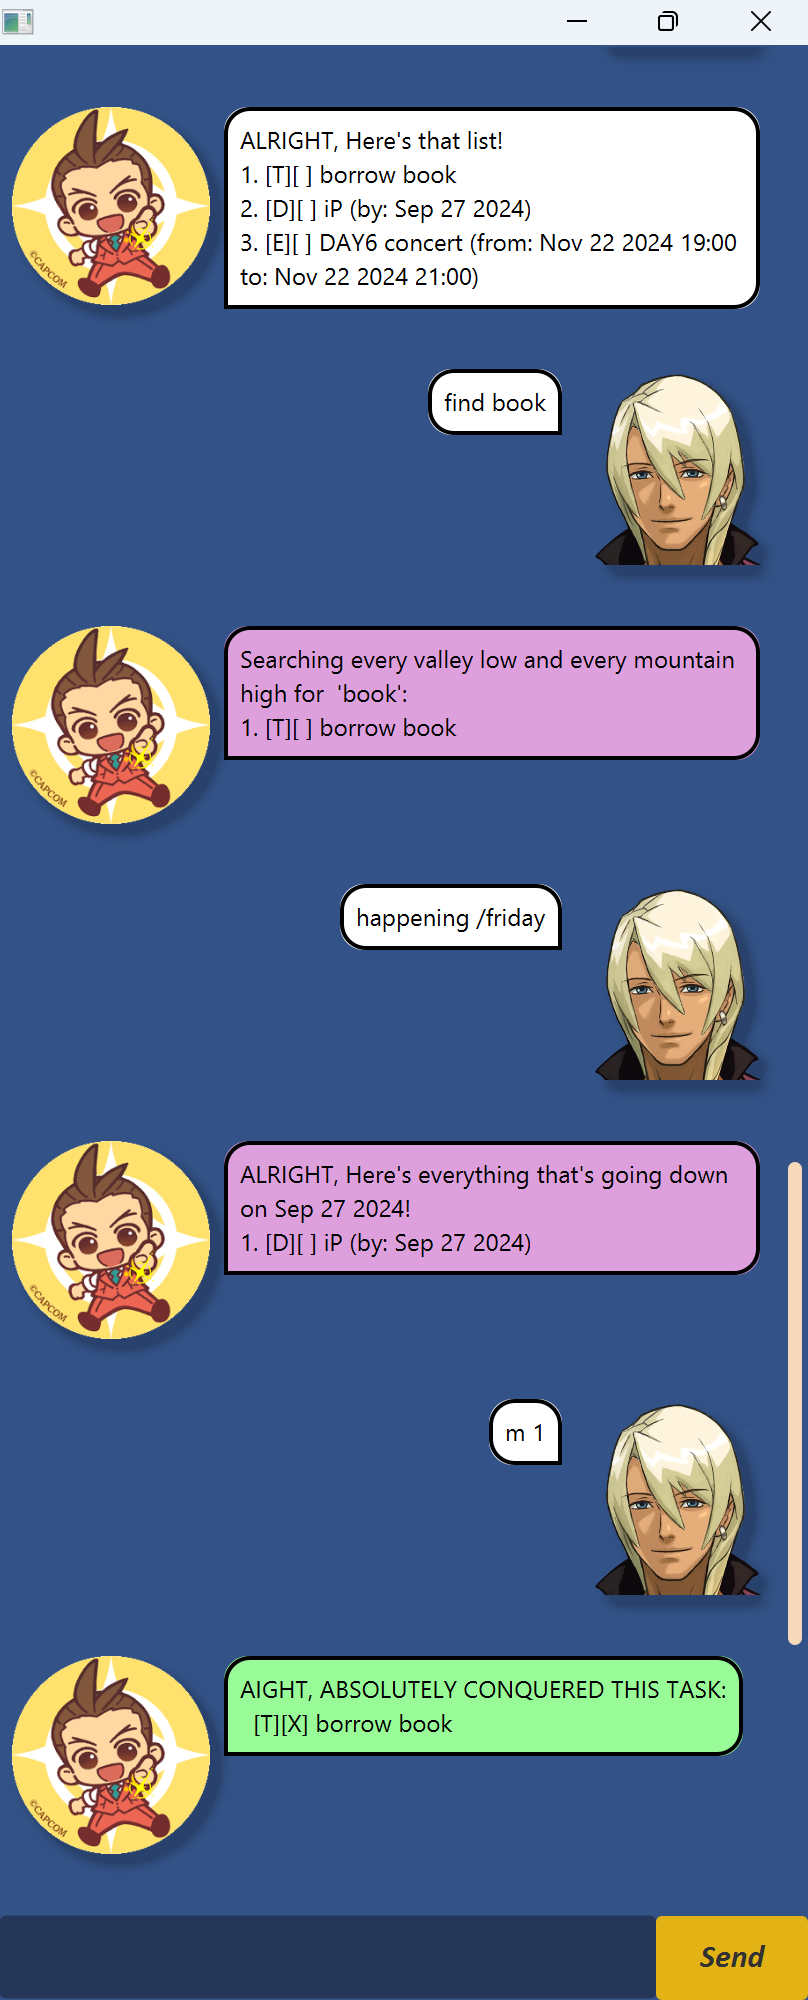
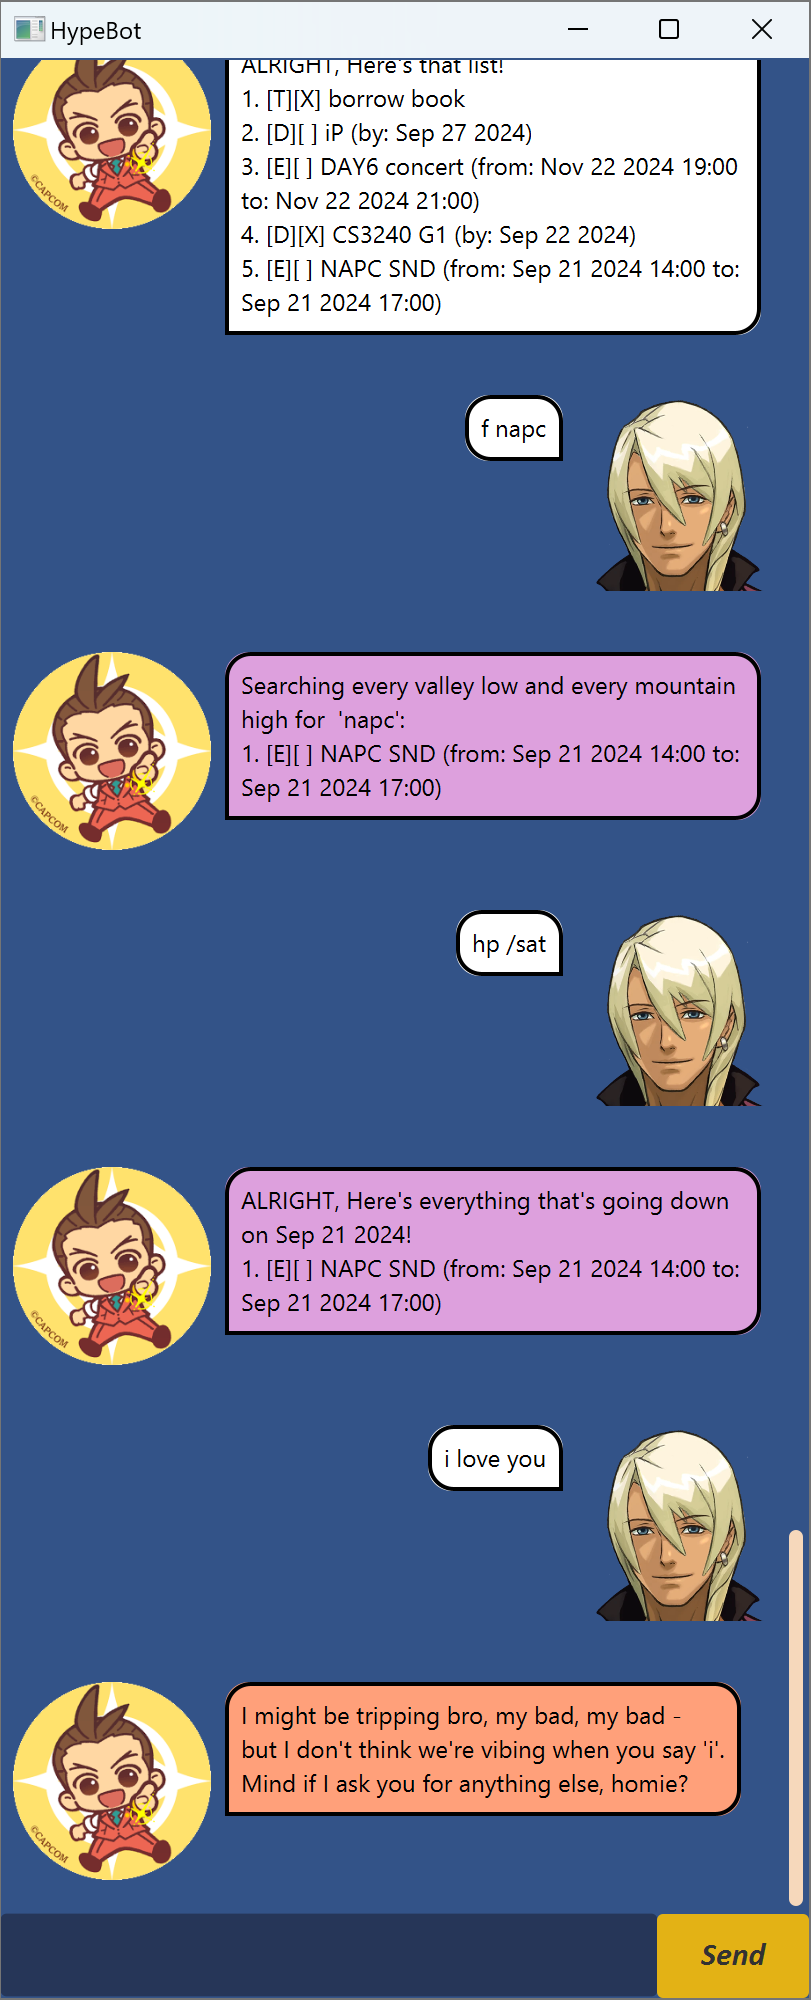
Add more custom messages

diff --git a/src/main/java/hypebot/ui/gui/UiGuiMain.java b/src/main/java/hypebot/ui/gui/UiGuiMain.java
@@ -29,6 +29,7 @@ public class UiGuiMain extends Application {
             stage.setMinWidth(417);
             stage.setMaxWidth(417);
             fxmlLoader.<UiGuiMainWindow>getController().setHypeBot(hypeBot);
+            stage.setTitle("HypeBot");
             stage.show();
         } catch (IOException e) {
             e.printStackTrace();
